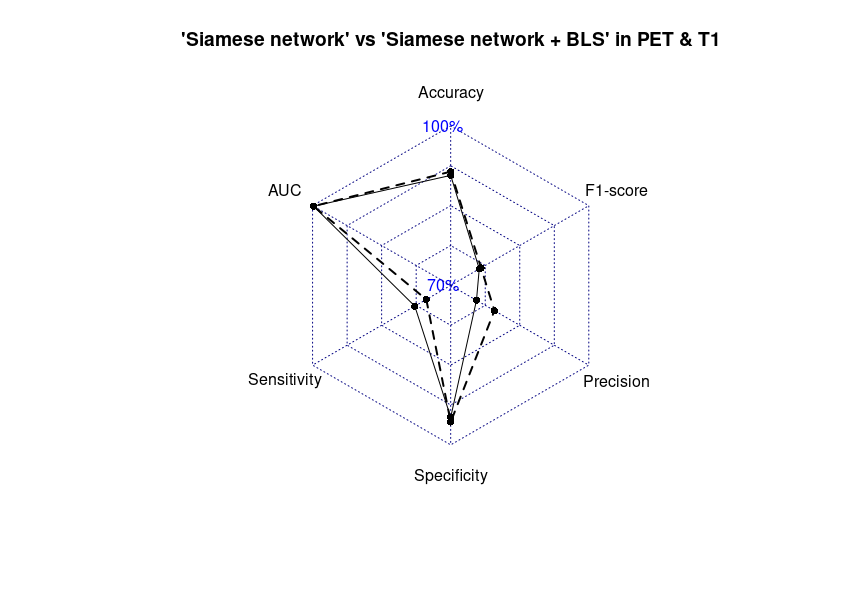
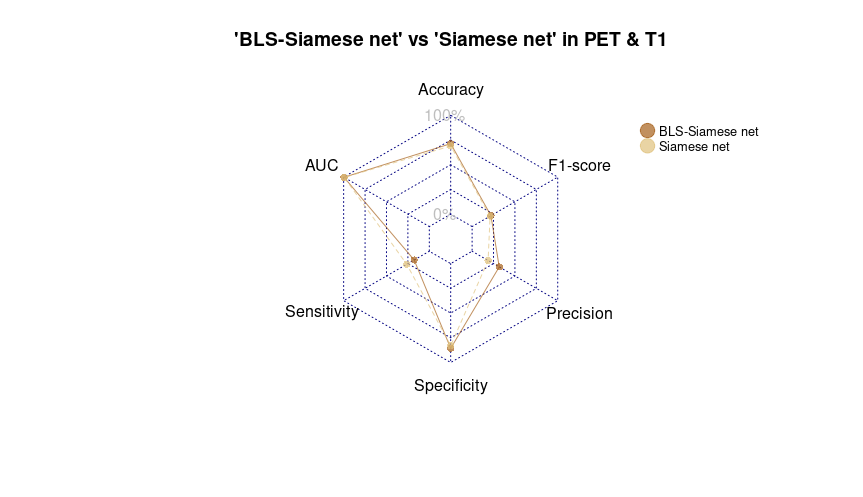
2

diff --git a/zuhui.html b/zuhui.html
@@ -11,7 +11,7 @@
     <link href="libs/xaringanExtra-scribble-0.0.1/scribble.css" rel="stylesheet" />
     <script src="libs/xaringanExtra-scribble-0.0.1/scribble.js"></script>
     <script>document.addEventListener('DOMContentLoaded', function() { window.xeScribble = new Scribble({"pen_color":["#FF0000"],"pen_size":3,"eraser_size":30,"palette":[]}) })</script>
-    <script type="application/json" id="xaringanExtra-editable-docid">{"id":"xeddcfabff574bc9bf4711ed68bcc9a5","expires":1}</script>
+    <script type="application/json" id="xaringanExtra-editable-docid">{"id":"c664ea6663154c908c1167aeb6804325","expires":1}</script>
     <script src="libs/himalaya-1.1.0/himalaya.js"></script>
     <script src="libs/js-cookie-3.0.0/js.cookie.js"></script>
     <link href="libs/editable-0.2.6/editable.css" rel="stylesheet" />
@@ -120,25 +120,40 @@ class: center, middle
 .footnote[Proposed Framework]
 
 ---
-.center[
+class: center, middle
 &lt;img src="./images/venn.png" width="100%" /&gt;
 .footnote[数据集取交集]
-]
-
 ---
-
 .center[
 | Model | Accuracy | AUC | Sensitivity |Specificity| Precison | F1-score| 
 | :-----: |  :-----: | :-----: | :-----: |  :-----: | :-----: |  :-----: | 
-| Siamese network+BLS |  0.914 | 0.998 | 0.753 |0.957|0.795|0.766|
-| Siamese network|0.907 | 0.998 | 0.779 |0.949|0.756|0.763|
+| BLS-Siamese net |  0.914 | 0.998 | 0.753 |0.957|0.795|0.766|
+| Siamese net|0.907 | 0.998 | 0.779 |0.949|0.756|0.763|
 ]
 ![PET+T1](./images/radar0.png)
 ---
-class: center, middle
+.center[
+| Model | Accuracy | AUC | Sensitivity |Specificity| Precison | F1-score| 
+| :-----: |  :-----: | :-----: | :-----: |  :-----: | :-----: |  :-----: | 
+| BLS-Siamese net |  0.916 | 0.988 | 0.478 |0.909|0.509|0.435|
+| Siamese net |0.825 | 0.990 | 0.508 |0.899|0.466|0.424|
+| RF(radiomics) |0.827 | 0.995 | 0.479 |0.917|0.533|0.487|
+| KNN(radiomics) |0.692 | 0.793 | 0.226 |0.953|0.403|0.286|
+| MLP(radiomics) |0.734 | 0.885 | 0.265 |0.933|0.365|0.264|
+]
+![T1](./images/radar2.png)
+---
+.center[
+| Model | Accuracy | AUC | Sensitivity |Specificity| Precison | F1-score| 
+| :-----: |  :-----: | :-----: | :-----: |  :-----: | :-----: |  :-----: | 
+| BLS-Siamese net |  0.835 | 0.993 | 0.763 |0.952|0.766|0.762|
+| Siamese net |0.860 | 0.985 | 0.742 |0.920|0.655|0.694|
+| RF(radiomics) |0.810 | 0.979 | 0.453 |0.945|0.637|0.524|
+| KNN(radiomics) |0.726 | 0.793 | 0.272 |0.930|0.444|0.279|
+| MLP(radiomics) |0.673 | 0.759 | 0.108 |0.961|0.316|0.144|
+]
 
 ![PET](./images/radar3.png)
-
 
 ---
 ---
